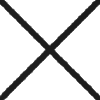
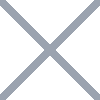
Logout feature added
-Users can now logout of the account (This will erase all their data from the indexedDB)

-Removed the ElementsStateTracker.js as it will not be needed.

-Removed unnecessary test images.

Changed region(s): [[0.0, 0.0, 1.0, 1.0]]

diff --git a/assets/style/profile.css b/assets/style/profile.css
@@ -2,12 +2,9 @@
   display: block;
   position: absolute;
   right: calc(var(--headerHeight) - var(--configWidth));
-  /* right: 0; */
   top: 0;
   height: var(--headerHeight);
   width: var(--configWidth);
-  /* background-color: #284872; */
-  /* cursor: pointer; */
   transition: ease-out .2s;
 }
 
@@ -23,7 +20,6 @@
   left: 3%;
   height: 80%;
   aspect-ratio: 1/1;
-  background-color: #3d7228;
   border-radius: 1vh;
   cursor: pointer;
   overflow: hidden;
@@ -43,12 +39,13 @@
   position: absolute;
   left: calc(var(--headerHeight) + 4%);
   top: 0;
-  height: 74.5%;
-  padding-top: 6.5%;
+  height: 50%;
+  /* padding-top: 6.5%; */
   width: fit-content;
   font-size: 3vh;
   pointer-events: none;
   color: #eee;
+  /* background-color: #a8be5996; */
 }
 
 .profile.config{
@@ -75,7 +72,29 @@
   top: 0;
   left: 0;
   width: 100%;
-  height: 15%;
+  height: 10%;
   margin-top: 3vh;
   background-color: #6b72288f;
+}
+
+.logout.button{
+  display: block;
+  position: relative;
+  top: 50%;
+  left: 30%;
+  width: 7vw;
+  height: 3.5vh;
+  padding-top: .5vh;
+  font-size: 2vh;
+  text-indent: 1.5vh;
+  background-color: #e7e7e7b4;
+  cursor: pointer;
+  border-radius: 2vh;
+}
+
+.logout.img{
+  position: absolute;
+  width: 17%;
+  top: 20%;
+  right: 10%;
 }

diff --git a/assets/scripts/startup.js b/assets/scripts/startup.js
@@ -136,10 +136,12 @@ const reLoadAllSlots = () => {
   customAlert.new([25, 20], [37.5, 25], "#d35252", "111", ['ok'], true, 'invalidFileType', '%', 'Pleas upload a .csv file', '3.5vh');
   customAlert.new([25, 20], [37.5, 25], "#d35252", "111", ['ok'], true, 'unknownError', '%', 'Something unexpected happened (Please check console for additional info)', '2.5vh');
   customAlert.new([25, 20], [37.5, 25], "#d35252", "111", ['ok'], true, 'noDataFound', '%', 'The file doesn\'t contain any data', '3.5vh');
+  customAlert.new([25, 20], [37.5, 25], "#d35252", "111", ['ok'], true, 'logoutFail', '%', 'Something went wrong while trying to logout Please try again later', '3.5vh');
 }
 //warnings
 {
   customAlert.new([25, 20], [37.5, 25], "#d8c34e", "111", ['yes', 'no'], true, 'inconsistentData', '%', 'Some datapoints in the datasets are not numbers.\nWould you still like to continue?', '2.5vh', setupDatasetsAlertBuffer);
+  customAlert.new([25, 20], [37.5, 25], "#d8c34e", "111", ['yes', 'no'], true, 'confirmLogout', '%', 'Performing this action will erase all your data from the database.\nAre you sure you want to Log Out?', '2.5vh', logout);
 }
 
 // customAlert.alert('invalidFileType');

diff --git a/index.html b/index.html
@@ -17,11 +17,14 @@
             <img src="assets/images/default-pfp.png" class="profile image" id="profile-image"/>
           </span>
           <span class="profile name" id="profile-name">UserNameHere</span>
+          <span class="logout button" id="logout-button">
+            Log Out <img class="logout img" id="logout-img" src="assets/images/logout.png" alt="logout"/>
+          </span>
           <span class="profile config" id="profile-config">
-            <span class="config element test"></span>
-            <span class="config element test"></span>
-            <span class="config element test"></span>
-            <span class="config element test"></span>
+            <span class="config element"></span>
+            <span class="config element"></span>
+            <span class="config element"></span>
+            <span class="config element"></span>
           </span>
         </span>
       </div>

diff --git a/assets/scripts/libraries/customLibraries/IDBHandler.js b/assets/scripts/libraries/customLibraries/IDBHandler.js
@@ -182,14 +182,20 @@ const getObjectsByIndex = async (DBName, storeName, version, indexName, keys, ca
   });
 }
 
-const deleteDatabase = (databaseName) => {
-  const request = indexedDB.deleteDatabase(databaseName);
+const deleteDatabase = (DBName, callback) => {
+  const request = indexedDB.deleteDatabase(DBName);
 
-  request.onsuccess = function() {
+  request.onsuccess = () => {
     console.log('Database deleted successfully');
+    if (typeof callback === 'function') {
+      callback('success');
+    }
   };
 
-  request.onerror = function() {
+  request.onerror = () => {
     console.log('Error deleting database');
+    if (typeof callback === 'function') {
+      callback('error');
+    }
   };
 }

diff --git a/assets/scripts/interactionHandlers.js b/assets/scripts/interactionHandlers.js
@@ -311,3 +311,15 @@ const downloadJsonData = (jsonData, indent=0) => {
   link.click();
   document.body.removeChild(link);
 }
+
+//confirm if the user really wants to logout
+const confirmLogout = () => {
+  customAlert.alert('confirmLogout');
+}
+
+// delete the indexedDB and logout the user
+const logout = (result) => {
+  if (result !== 'yes') return false;
+  deleteDatabase(DBName);
+  window.setTimeout(() => {window.location.reload()}, 500);
+}

diff --git a/assets/scripts/eventManager.js b/assets/scripts/eventManager.js
@@ -51,6 +51,10 @@ document.addEventListener('click', (event) => {
       break;
     case 'save-button' : saveCurrentData();
       break;
+    case 'logout-button' : confirmLogout();
+      break;
+    case 'logout-img' : confirmLogout();
+      break;
     default : {
       if (event.target.classList[1] === 'loader') {
         loadPreviousData(parseInt(event.target.classList[2]));

diff --git a/assets/style/controlPanel.css b/assets/style/controlPanel.css
@@ -327,7 +327,7 @@
   top: .5vh;
   aspect-ratio: 1/1;
   right: 0;
-  background-image: url('../images/cross3.png');
+  background-image: url('../images/cross.png');
   background-repeat: no-repeat;
   background-position: center;
   background-size: 60%;
